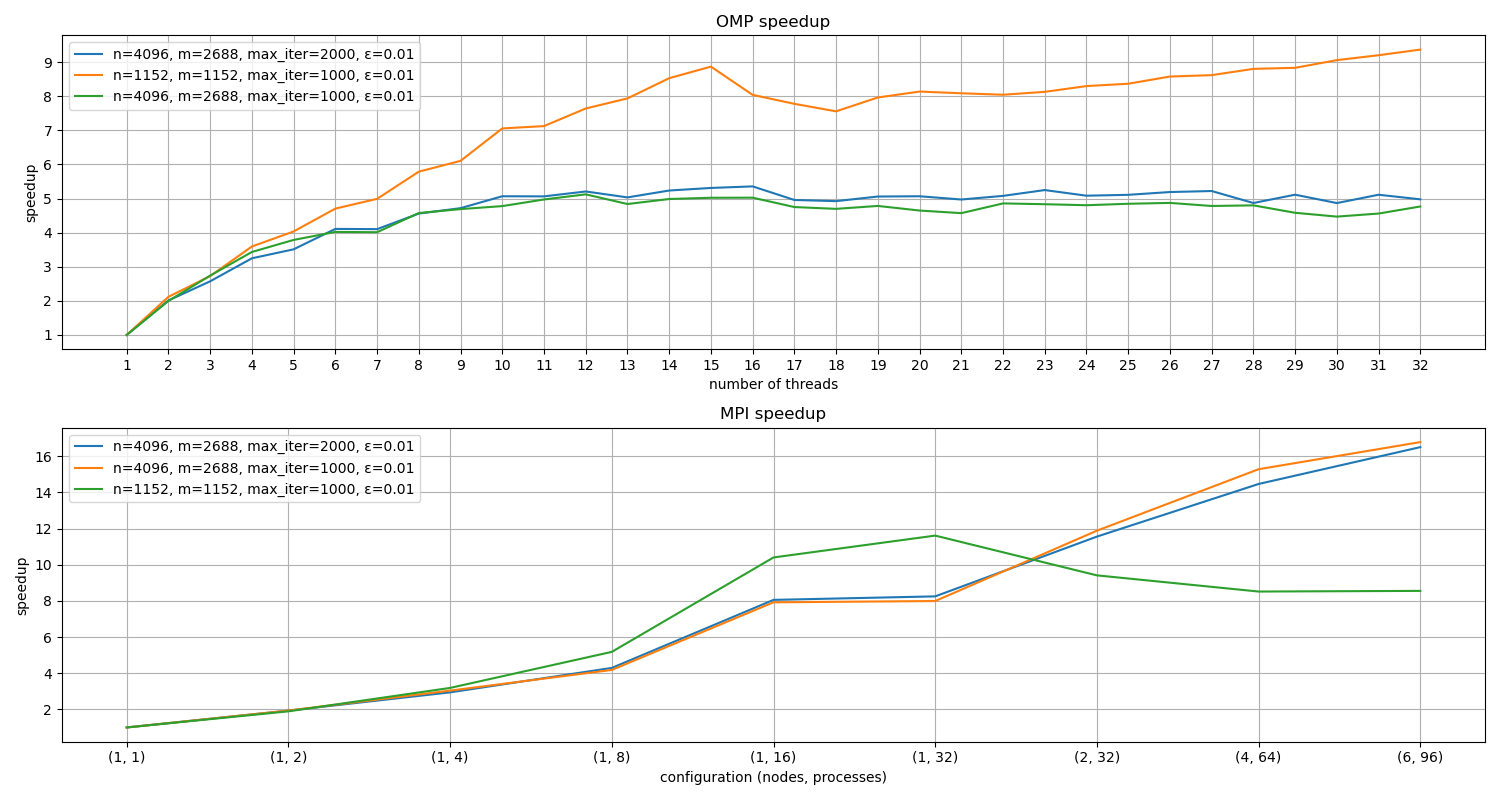
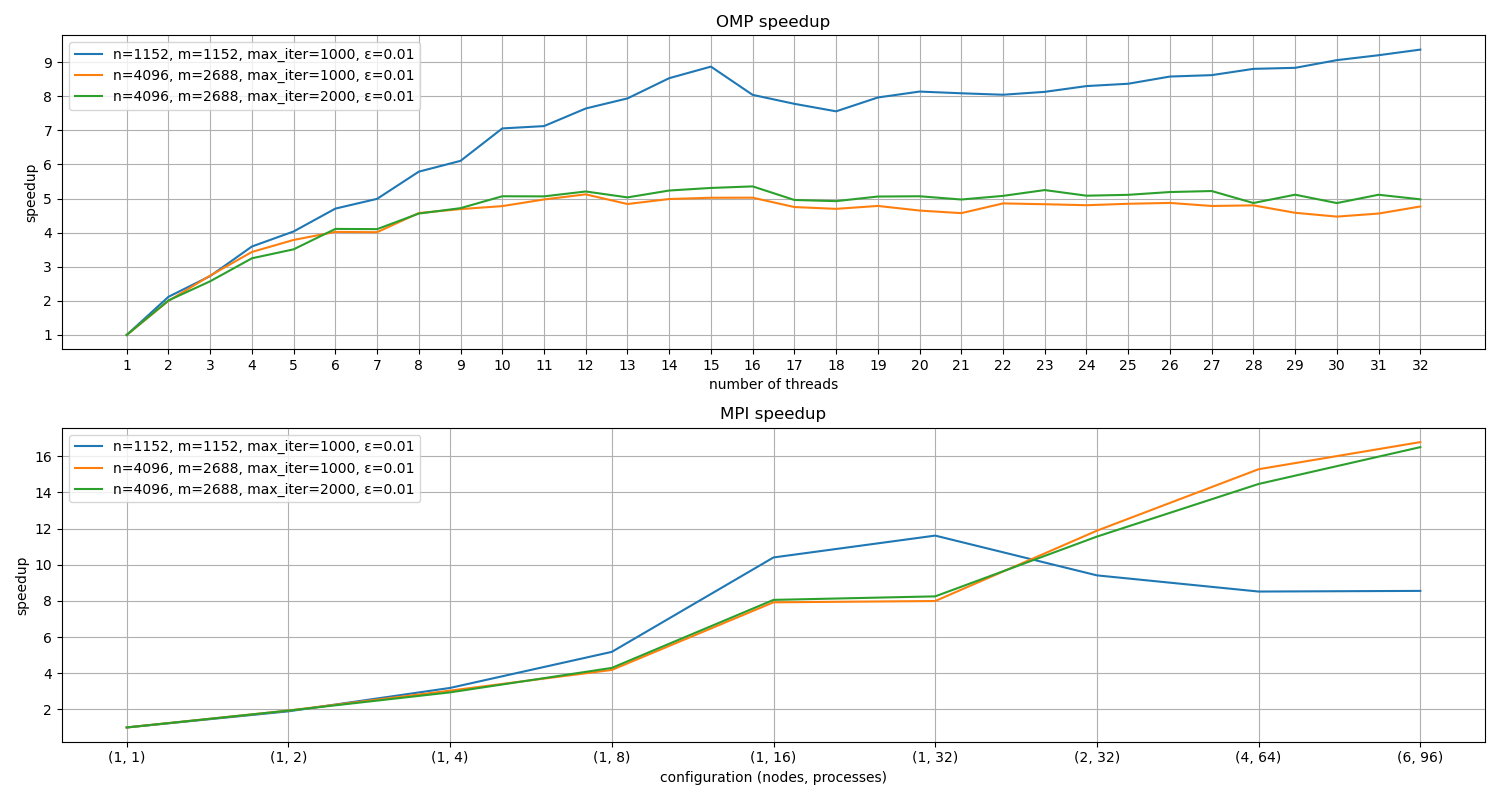
order filenames in speedup-image-generation-script

diff --git a/A2/plot-execution.py b/A2/plot-execution.py
@@ -27,7 +27,7 @@ plt.ylabel("speedup")
 plt.xticks(np.arange(1, 33))
 plt.yticks(np.arange(1, 20))
 
-for filename in omp_execution_time_files:
+for filename in sorted(omp_execution_time_files):
     df = pd.read_csv(filename)
     plt.plot(df["num_thread"], df["execution-time"].iloc[0] / df["execution-time"], label=get_arguments_from_filename(filename))
 
@@ -37,7 +37,7 @@ plt.title("MPI speedup")
 plt.xlabel("configuration (nodes, processes)")
 plt.ylabel("speedup")
 plt.grid()
-for filename in mpi_execution_time_files:
+for filename in sorted(mpi_execution_time_files):
     df = pd.read_csv(filename)
 
     x_ticks = ("(" + df["num_nodes"].astype("str") + ", " + df["num_thread"].astype("str")) + ")"
